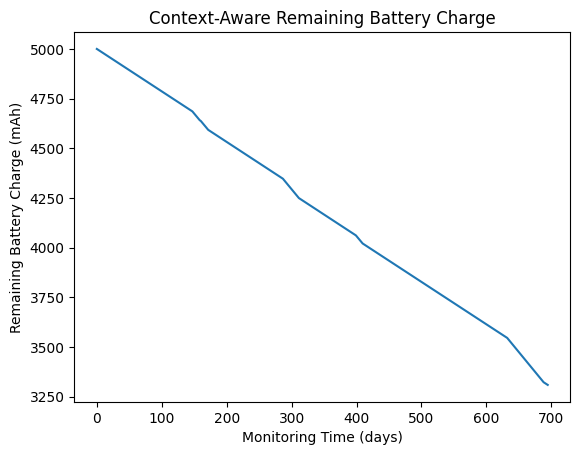
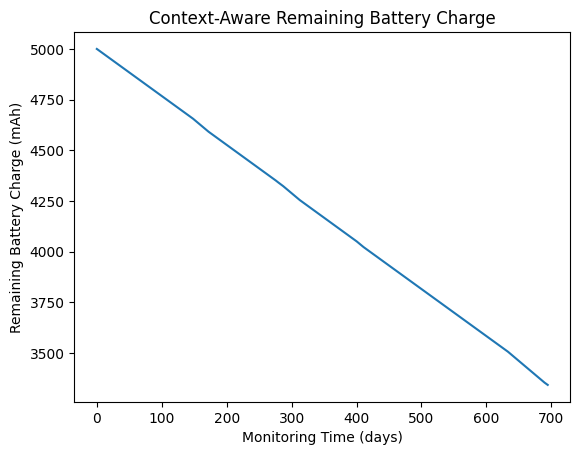
modify node only and server only simulations to better adjust to the paper

diff --git a/src/simulations/node_only_simulation.py b/src/simulations/node_only_simulation.py
@@ -19,14 +19,14 @@ def node_only_simulation(df_node, show=False):
         in_event = nd.in_event
         if in_event:  # a Flood event is active
             sampling_rate = 5 * 2
-            transmission_thres = 5 * 3
+            transmission_thres = 5 * 4
             _prev_event = True
         elif p < nd.threshold_off:
             sampling_rate = 5 * 12
             transmission_thres = 5 * 18
         else:
             sampling_rate = 5 * 2
-            transmission_thres = 5 * 3
+            transmission_thres = 5 * 4
 
         if (not in_event and p >= nd.threshold_on) or (in_event and p < nd.threshold_off):
             trans = True

diff --git a/src/simulations/server_only_simulation.py b/src/simulations/server_only_simulation.py
@@ -16,11 +16,11 @@ def server_only_simulation(df_node, show=False):
         recep = False
         in_event = nd.in_event
         if in_event:  # a Flood event is active
-            sampling_rate = 5 * 3
-        elif level < nd.threshold_on:
-            sampling_rate = 5 * 18
+            sampling_rate = 5 * 7
+        elif level < nd.threshold_off:
+            sampling_rate = 5 * 12
         else:
-            sampling_rate = 5 * 3
+            sampling_rate = 5 * 7
 
         if sampling_rate != _prev_sampling_rate:
             recep = True
